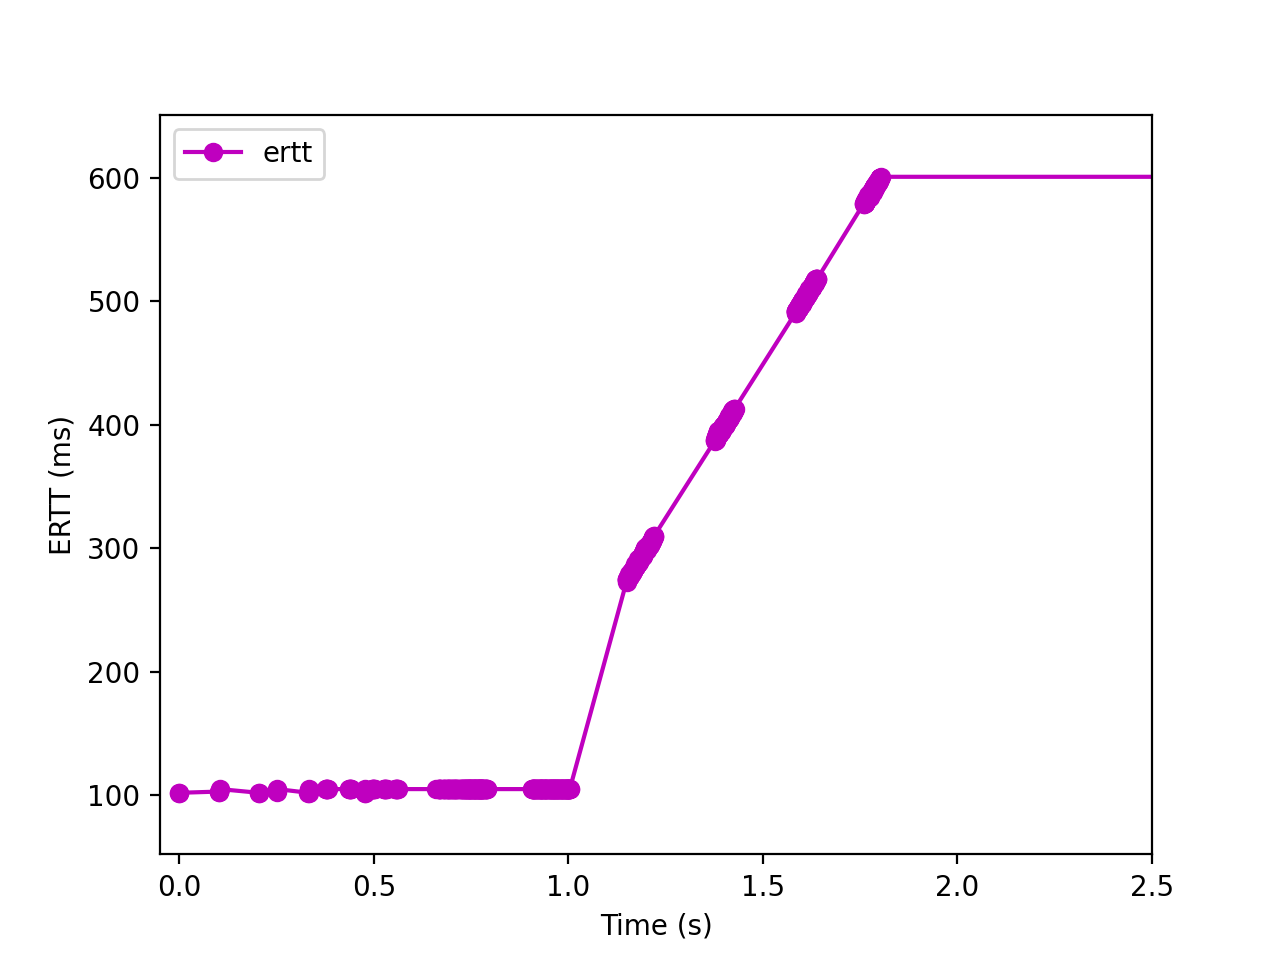
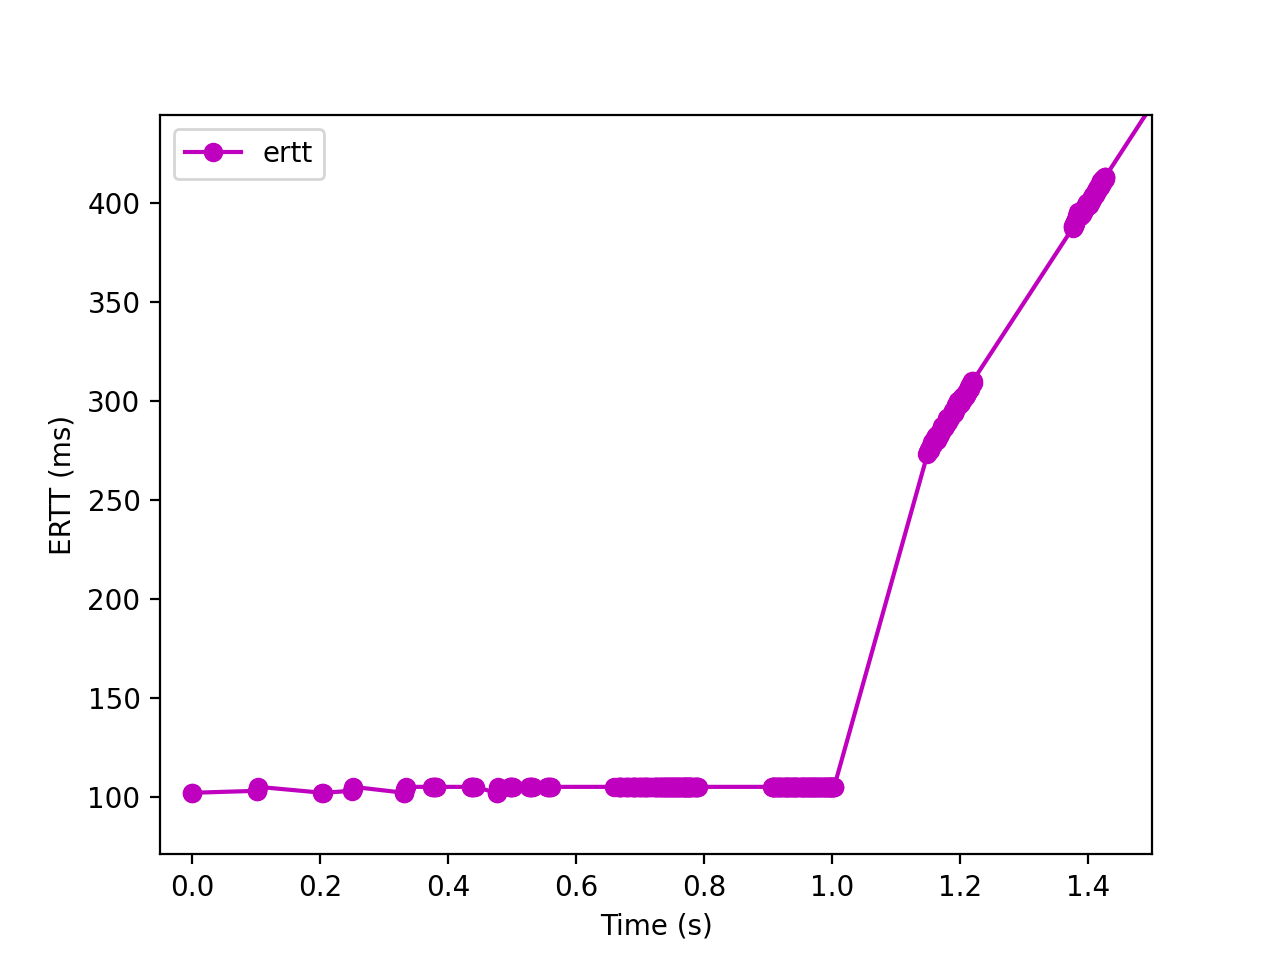
ietf graphs

diff --git a/for_IETF_Nov_2025/present_graphs_ietf_nov_2025.html b/for_IETF_Nov_2025/present_graphs_ietf_nov_2025.html
@@ -226,13 +226,25 @@ hr.bold-line {
 
 <hr class="section-line">
 
+<h2>rack_newreno_off</h2>
+
+<div class='grid'>
+  <div class='card'><img class='zoom-img' src='freebsd/rack_newreno_off_param_sweep-abc200_send1048576_inc8192_max134217728_sock268435456/plots/log_data3_cwnd_theoretical_zoomed.png'><p>cwnd_theoretical cwnd</p></div>
+  <div class='card'><img class='zoom-img' src='freebsd/rack_newreno_off_param_sweep-abc200_send1048576_inc8192_max134217728_sock268435456/plots/log_data3_cwnd_rwind_cwndlimited_zoomed.png'><p>cwnd_rwind</p></div>
+  <div class='card'><img class='zoom-img' src='freebsd/rack_newreno_off_param_sweep-abc200_send1048576_inc8192_max134217728_sock268435456/plots/log_data3_rwind_cwnd_theoretical_cwnd_zoomed.png'><p>cwnd_rwind_theoretical</p></div>
+  <div class='card'><img class='zoom-img' src='freebsd/rack_newreno_off_param_sweep-abc200_send1048576_inc8192_max134217728_sock268435456/plots/log_data3_rtt_sample_func_s_zoomed.png'><p>RTT sample</p></div>
+  <div class='card'><img class='zoom-img' src='freebsd/rack_newreno_off_param_sweep-abc200_send1048576_inc8192_max134217728_sock268435456/plots/log_data3_throughput_goodput_zoomed.png'><p>throughput_goodput</p></div>
+</div>
+
+<hr class="section-line">
+
 <h2>rack_newreno_HyStartPP</h2>
 
 <div class='grid'>
   <div class='card'><img class='zoom-img' src='freebsd/rack_hystartpp_params/log_data1_cwnd_theoretical_zoomed.png'><p>cwnd_theoretical cwnd</p></div>
   <div class='card'><img class='zoom-img' src='freebsd/rack_hystartpp_params/log_data1_cwnd_rwind_cwndlimited_zoomed.png'><p>cwnd_rwind</p></div>
   <div class='card'><img class='zoom-img' src='freebsd/rack_hystartpp_params/log_data1_rwind_cwnd_theoretical_cwnd_zoomed.png'><p>cwnd_rwind_theoretical</p></div>
-  <div class='card'><img class='zoom-img' src='freebsd/rack_hystartpp_params/log_data1_ertts_zoomed.png'><p>ertt</p></div>
+  <div class='card'><img class='zoom-img' src='freebsd/rack_hystartpp_params/log_data1_rtt_sample_func_s_zoomed.png'><p>RTT sample</p></div>
   <div class='card'><img class='zoom-img' src='freebsd/rack_hystartpp_params/log_data1_throughput_goodput_zoomed.png'><p>throughput_goodput</p></div>
 </div>
 
